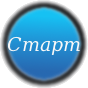
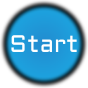
space travel UI translation to english

diff --git a/space-travel/index.ru.html b/space-travel/index.ru.html
@@ -413,7 +413,7 @@
 		$("#test" ).html(img_to_load[loaded_count]);
 	},
 	all: function() {
-		$("#test" ).html("Loaded");
+		$("#test" ).html("Загрузка завершена");
 		//$("#progressbar" ).progressbar("destroy");
 		$("#start_button").css("visibility","visible");
 	}
@@ -427,19 +427,19 @@
 		$("#target_hp").text(hp+"/"+maxhp);
 		switch(rel) {
 			case 5:
-				rel="Perfect";
+				rel="Отличное";
 			break;
 			case 4:
-				rel="Good";
+				rel="Хорошее";
 			break;
 			case 3:
-				rel="Normal";
+				rel="Норамальное";
 			break;
 			case 2:
-				rel="Warried";
+				rel="Напряжённое";
 			break;
 			case 1:
-				rel="Enemy";
+				rel="Враждебное";
 			break;
 		}		
 		$("#target_rel").html(rel);
@@ -605,23 +605,22 @@
 		<tr><td id="hcontent">
 		<!--История игры-->
 		<center>
-		<textarea cols="65" rows="20" id='harea' readonly>
-In the year 2300, mankind colonized the nearest 7 star systems in two sectors. First occasional contacts with the Faeians and the Children of Gaal occurred, but for various reasons active relationships with neither the first nor the second were developed. More recently, mankind has finally managed to end the planetary and interplanetary wars and learn to live in peace. Unfortunately, space piracy and organized crime still terrorize the united humanity.
+		<textarea cols="65" rows="20" id='harea' readonly>  2300 год человечество освоило ближайшие пригодные 7 звёздных систем в двух секторах, произошли первые случайные контакты с Фаэянами и Детьми Гаала, однако по различным причинам ни с первыми ни со вторыми активные взаимоотношения не сложились. Совсем недавно человечеству удалось наконец покончить с планетарными и межпланетными войнами и научиться жить в мире. К сожалению космическое пиратство и организованную преступность пока победить объединённому человечеству не удалось.
 
-The last major problem humanity has become TravelOrs invaded the human space 17 years ago. During the last years they successfully one by one occupied humanity systems. The attempt to establish contact with them failed, their communication systems were so strongly encoded and protected that it was impossible to deliver message.
+Последней крупной проблемой человечество стали ТравелОры вторгшиеся в пространство людей 17 лет назад и успешно одна за одной в течении последних лет окупировавших системы людей. Попытка вступить с ними в контакт провалилась, их система связи была столь сильно закодирована и защищена , что внедрить в неё своё сообщение не представлялось возможным.
 
-Just once the United Space Fleet of Humanity managed to meet the Travelers in a full-scale space battle, and at the moment of the highest triumph, when it was believed that the fleet of Travelers was defeated and Denebola would go down in history as a place of great victory, main forces of TravelOrs entered the battle. Human fleet was defeated in a couple of hours and while retreating humans lost two more systems.
+Всего 1ин раз Объединённому Космическому Флоту Человечества удалось вступить в ТравелОрами в полномаштабное космическое сражение, и в момент наивысшего триумфа, когда считалось что флот ТравелОров разбит и Денебола войдёт в историю как место великой победы, в систему вошли основные силы ТравелОров, флот человечества был разбит всего за пару часов и отступая люди потеряли ещё две системы.
 
-The situation became threatening, as from 7 original systems, humanity controlled only 3 in their original sector. They were completely alone with Travelers, a narrow channel of communication with the Faeyans and the Children of Gaal was blocked. Riots and demonstrations swept the worlds demanding the resignation of their governments that had allowed such a defeat. At this moment of weakness, TravelOr’s second largest attack on human systems started. After a month of heavy fighting, the remnants of the United Human Fleet retreated to Solar System. Humans returned to their home world and stood on the brink of complete destruction by an unknown enemy.
+Ситуация стала угрожающей из 7 систем люди контролировали только 3 в своём родном секторе. Они были полностью наедине с ТравелОрами, узкий канал связи с Фаэянами и Детьми Гаала был перекрыт. Беспорядки и демонстрации прокатились по планетым требуя отставок своих правительств допустивших разгром. В этот момент слабости произошла вторая крупнейшая атака ТравелорОв на системы людей. После месяца тяжелых боёв остатки Объединённого Флота Человечества отступили в Солнечную Систему. Люди вернулись в свою колбель и они стояли на грани поражения от неизвестного врага.
 
-For defense of solar system, recruitment into civil service of Rangers started. Volunteer pilots whose sole order was: "Fight and save mankind in any way."			
+Для обороны Солнечной Системы был объевлен набор в ряды Рейнджеров , пилотов добровольцев чьим единственным приказом стало: "Бороться и спасти человечество любым путём".
 		</textarea><br>
-		Your name:<input type="text" id="player_name">Remember?<input type="checkbox" id="remember">
+		Ваше имя:<input type="text" id="player_name">Запомнить?<input type="checkbox" id="remember">
 		</center>
 		
 		<!--Конец истории-->
 		</td></tr>
-		<tr><td><center><div id="start_button" onclick='Enter();'></div>Auto-enter?<input type="checkbox" id="auto"></center></td></tr>
+		<tr><td><center><div id="start_button" onclick='Enter();'></div>Автовход?<input type="checkbox" id="auto"></center></td></tr>
 		</table>
 		</center>
 		</td></tr>
@@ -635,10 +634,10 @@ For defense of solar system, recruitment into civil service of Rangers started. 
 	</table>	
 		<div id="target">		
 		<table border=0>
-		<tr><td colspan=2></td><b><div id="target_name">Dionis Trader</div></b></tr>
-		<tr><td>Speed:</td><td><div id="target_speed">200</div></td></tr>
-		<tr><td>Hull:</td><td><div id="target_hp">300/300</div></td></tr>
-		<tr><td>Relation:</td><td><div id="target_rel">Perfect</div></td></tr>
+		<tr><td colspan=2></td><b><div id="target_name">Торговец Дайнис</div></b></tr>
+		<tr><td>Скорость:</td><td><div id="target_speed">200</div></td></tr>
+		<tr><td>Структура:</td><td><div id="target_hp">300/300</div></td></tr>
+		<tr><td>Отношение:</td><td><div id="target_rel">Отличное</div></td></tr>
 		</table>
 		</div>
 		

diff --git a/space-travel/js/texts.js b/space-travel/js/texts.js
@@ -1,54 +1,54 @@
 var tnames=new Array(
-			"Торговец Дайнис",
-			"Торговец Авелий",
-			"Торговец Бен",
-			"Торговец Виталя",
-			"Торговец Генацвали",
-			"Торговец Дарий",
-			"Торговец Евдоким",
-			"Торговец Жанна",
-			"Торговец Залётный",
-			"Торговец Икая",
-			"Торговец Ярмола",
-			"Торговец Тиккирей",
-			"Торговец Лопух"
+			"Trader Dionis",
+			"Trader Avely",
+			"Trader Ben",
+			"Trader Vitaly",
+			"Trader Gene",
+			"Trader Dary",
+			"Trader Evdokim",
+			"Trader Janna",
+			"Trader Zaletny",
+			"Trader Ikaya",
+			"Trader Yarmola",
+			"Trader Tikkery",
+			"Trader Lol"
 		);
 		var dnames=new Array(
-			"Дипломат Августин",
-			"Дипломат Борда",
-			"Дипломат Вселенной",
-			"Дипломат Грибоедов",
-			"Дипломат Данайцев",
-			"Дипломат Европа",
-			"Дипломат Союз",
-			"Дипломат Будущего",
-			"Дипломат Пришельцев",
-			"Дипломат Хомо",
-			"Дипломат Якиман"
+			"Diplomat Augustin",
+			"Diplomat Borda",
+			"Diplomat Universe",
+			"Diplomat Griboedov",
+			"Diplomat Troyan",
+			"Diplomat Europe",
+			"Diplomat Union",
+			"Diplomat Future",
+			"Diplomat Alien",
+			"Diplomat Homo",
+			"Diplomat Yakiman"
 		);
 		var bnames=new Array(
-			"Форпост",
-			"Мир 31",
-			"Вавилон",
-			"Глубокий Космос 1",
-			"Победа"
+			"Outpost",
+			"MIR 31",
+			"Babylon",
+			"Deep Space 1",
+			"Victory"
 		);
 		var base_texts={
 			"gov":[
-			"Ты %player% находишься на космической базе %base%. Отсюда мы координируем как флотские операции, так и следим за рейнджерами. Что тебя сюда привело?",
-			"База %base% важнейший рубеж обороны на пути ТравелОров %player%! Чем мы можем тебе помочь?",
-			"Эх %player% ты пока зелёный новичок, но буду откровенен, ситуация та ещё. Если такие как ты не переломят ход войны то ветеранами вам не быть."
+			"You %player% are at starbase %base%. From here we coordinate our fleet ops and track activities of rangers. How can I help uou?",
+			"The base %base% in our major defence line against TravelOrs %player%! How can we assist you?",
+			"You %player% just a new recrut, but let me be honest, this is a shitty situation. If guys like you won't change course of the war you'd never be a veteran."
 			],
 			"task":[
-			"К сожалению %player% пока не установлены правила по поручению рейнджерам заданий. Но не волнуйтесь, совсем скоро мы с этим разберёмся и завалим вас заданиями."
+				"Sorry %player% but we don't have any missions for rangers yet. But don't worry we will overload you really soon."
 			]
 		};
 		var base_answ={
 			"gov":[
-			"<a href='#' onclick='GetTask();'>Для меня есть задание?</a><br><a href='#' onclick='Esc();'>Мне нужен ремонт</a><br><a href='#' onclick='Esc();'>Пока</a>"
+			"<a href='#' onclick='GetTask();'>Do you have a mission for me?</a><br><a href='#' onclick='Esc();'>I need to repair my ship</a><br><a href='#' onclick='Esc();'>Buy</a>"
 			],
 			"task":[
-			"<a href='#' onclick='Esc();'>Мне нужен ремонт</a><br><a href='#' onclick='Esc();'>Пока</a>"
+			"<a href='#' onclick='Esc();'>I need to repair my ship</a><br><a href='#' onclick='Esc();'>Buy</a>"
 			]
 		}
 		var pl_names=new Array(

diff --git a/space-travel/js/texts.ru.js b/space-travel/js/texts.ru.js
@@ -1,0 +1,65 @@
+var tnames=new Array(
+			"Торговец Дайнис",
+			"Торговец Авелий",
+			"Торговец Бен",
+			"Торговец Виталя",
+			"Торговец Генацвали",
+			"Торговец Дарий",
+			"Торговец Евдоким",
+			"Торговец Жанна",
+			"Торговец Залётный",
+			"Торговец Икая",
+			"Торговец Ярмола",
+			"Торговец Тиккирей",
+			"Торговец Лопух"
+		);
+		var dnames=new Array(
+			"Дипломат Августин",
+			"Дипломат Борда",
+			"Дипломат Вселенной",
+			"Дипломат Грибоедов",
+			"Дипломат Данайцев",
+			"Дипломат Европа",
+			"Дипломат Союз",
+			"Дипломат Будущего",
+			"Дипломат Пришельцев",
+			"Дипломат Хомо",
+			"Дипломат Якиман"
+		);
+		var bnames=new Array(
+			"Форпост",
+			"Мир 31",
+			"Вавилон",
+			"Глубокий Космос 1",
+			"Победа"
+		);
+		var base_texts={
+			"gov":[
+			"Ты %player% находишься на космической базе %base%. Отсюда мы координируем как флотские операции, так и следим за рейнджерами. Что тебя сюда привело?",
+			"База %base% важнейший рубеж обороны на пути ТравелОров %player%! Чем мы можем тебе помочь?",
+			"Эх %player% ты пока зелёный новичок, но буду откровенен, ситуация та ещё. Если такие как ты не переломят ход войны то ветеранами вам не быть."
+			],
+			"task":[
+			"К сожалению %player% пока не установлены правила по поручению рейнджерам заданий. Но не волнуйтесь, совсем скоро мы с этим разберёмся и завалим вас заданиями."
+			]
+		};
+		var base_answ={
+			"gov":[
+			"<a href='#' onclick='GetTask();'>Для меня есть задание?</a><br><a href='#' onclick='Esc();'>Мне нужен ремонт</a><br><a href='#' onclick='Esc();'>Пока</a>"
+			],
+			"task":[
+			"<a href='#' onclick='Esc();'>Мне нужен ремонт</a><br><a href='#' onclick='Esc();'>Пока</a>"
+			]
+		}
+		var pl_names=new Array(
+			"Katus Darkbreaker",
+			"Bolas Singrove",
+			"Saithikelv",
+			"Nighthammer",
+			"Flamecaster",
+			"Delarius",
+			"Mari",
+			"Moraundefined",
+			"Kathrigamand",
+			"Ariswyn"
+		);

diff --git a/space-travel/model-viewer.ru.html b/space-travel/model-viewer.ru.html
@@ -203,7 +203,7 @@
 <center>
 	<div id="progressbar"></div>
 	<div id="test" style="color: #ffffff"></div>
-	<font color="#ffffff">SpaceTravel model viewer</font>
+	<font color="#ffffff">SpaceTravel просмотрщик анимации</font>
 	<table border=1 width=600 height=400 id="main_table">
 		<tr>
 			<td width=250>
@@ -212,31 +212,31 @@
 				
 				</td>
 			<td bgcolor="#000000" style="color: #ffffff;padding: 10px;">
-				Model<br>
+				Модель<br>
 				<select id="model">
-				<option value='0'>Diplomat</option>
-				<option value='2'>Ranger</option>
-				<option value='1'>Trader</option>	
-				<option value='3'>Rocket</option>
-				<option value='4'>Earth</option>
-				<option value='5'>Mercury</option>
-				<option value='6'>Venus</option>
-				<option value='7'>Mars</option>
-				<option value='8'>Saturn</option>
-				<option value='9'>Neptune</option>
-				<option value='10'>Jupiter</option>
-				<option value='11'>Sol</option>	
-				<option value='12'>Enemy 1</option>
-				<option value='13'>Enemy 2</option>
-				<option value='14'>Enemy 3</option>				
-				<option value='15'>Military</option>	
-				<option value='16'>Starbase</option>	
-				<option value='17'>Blast</option>	
+				<option value='0'>Дипломат</option>
+				<option value='2'>Рейнджер</option>
+				<option value='1'>Торговец</option>	
+				<option value='3'>Ракета</option>
+				<option value='4'>Земля</option>
+				<option value='5'>Меркурий</option>
+				<option value='6'>Венера</option>
+				<option value='7'>Марс</option>
+				<option value='8'>Сатурн</option>
+				<option value='9'>Нептун</option>
+				<option value='10'>Юпитер</option>
+				<option value='11'>Солнце</option>	
+				<option value='12'>Враг №1</option>
+				<option value='13'>Враг №2</option>
+				<option value='14'>Враг №3</option>				
+				<option value='15'>Военный</option>	
+				<option value='16'>База</option>	
+				<option value='17'>Взрыв</option>	
 								
-				</select><input type='button' value='Change' onclick='cmodel()'><br>
-				Size<div id="size"></div><br>
-				Agle<div id="angle"></div><br>
-				Animation speed<div id="speed"></div><br>
+				</select><input type='button' value='Переключить' onclick='cmodel()'><br>
+				Размер<div id="size"></div><br>
+				Угол<div id="angle"></div><br>
+				Скорость анимации<div id="speed"></div><br>
 				
 			</td>
 		</tr>

diff --git a/space-travel/orbit-calculator.ru.html b/space-travel/orbit-calculator.ru.html
@@ -27,11 +27,11 @@
 	</script>
 </head>
 <body>
-Orbit:<input type='text' id='orbit'><br>
-Speed:<input type='text' id='speed'><br>
-System size:<input type='text' id='size'><br>
+Орбита:<input type='text' id='orbit'><br>
+Скорость:<input type='text' id='speed'><br>
+Размер системы:<input type='text' id='size'><br>
 
-<input type='button' value='Calculate' onclick='calculate()'><br>
+<input type='button' value='Рассчитать' onclick='calculate()'><br>
 <div id='resalt'></div>
 </body>
 </html>
